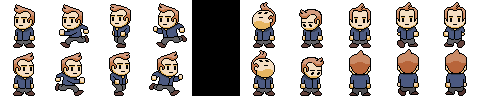
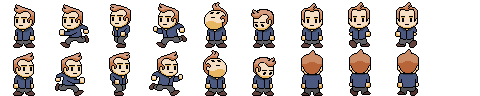
animation player

diff --git a/player.cc b/player.cc
@@ -15,17 +15,20 @@ class Player {
         void animate(){
             int x=0, y=0;
             if (dx == dy || dx == -dy){
-                if (dx == 0) frame = 0;
+                if (dx == 0){
+                    frame = 0;
+                    y = (lx+1)/2;
+                } 
                 else {
                     x = 1;
-                    y = 1 == dx;
+                    y = (1 == dx);
                 }
             } else if (dy == 0){
                 x = 1;
                 if (dx == -1) y=0;
                 else if (dx == 1) y=1;
             } else if (dx == 0){
-                x = 7;
+                x = 6;
                 if (dy == 1) y = 0;
                 else if (dy == -1) y = 1;
             }
@@ -37,6 +40,7 @@ class Player {
         Sprite sprite;
         int dx = 0;
         int dy = 0;
+        int lx = -1;
         int speed = 5;
 
         void load(){
@@ -55,6 +59,8 @@ class Player {
                 frame = (frame+1)%3;
                 animate();
                 t = 0;
+                if (dx != 0)
+                    lx = dx;
             }
             sprite.move(dx*speed, dy*speed);
         }
